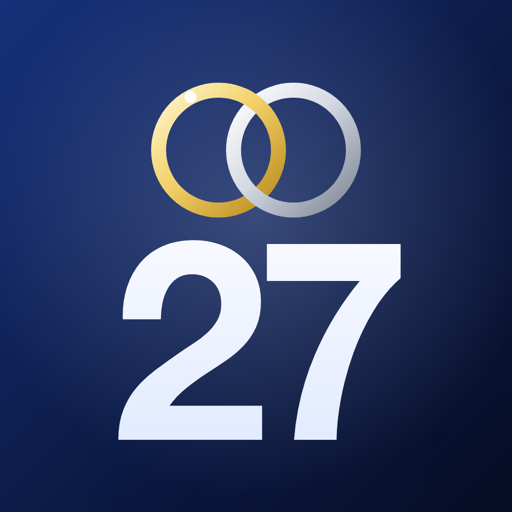
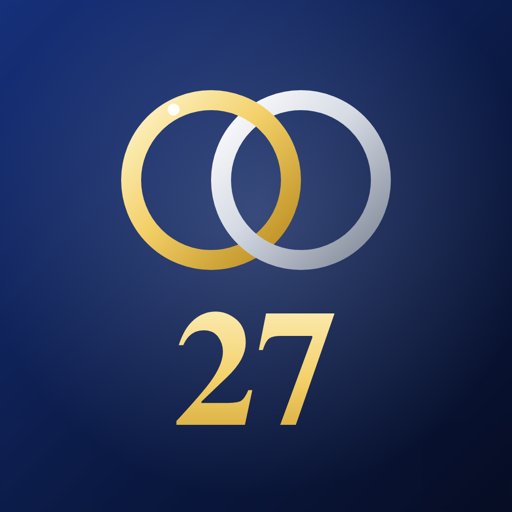
App-Symbol Variante B (Gold & Silber, goldene 27) und Anleitung mit „Mehr anzeigen“
Claude-Session: https://claude.ai/code/session_01BaYiSZ1tkA1mRZBURPAm5v

Changed region(s): [[0.2188, 0.1562, 0.7812, 0.875]]

diff --git a/restaurants.html b/restaurants.html
@@ -5,8 +5,8 @@
   <meta name="viewport" content="width=device-width, initial-scale=1, viewport-fit=cover">
   <meta name="color-scheme" content="light dark">
   <link rel="manifest" href="manifest.webmanifest">
-  <link rel="icon" type="image/png" href="icons/icon-192.png?v=d">
-  <link rel="apple-touch-icon" href="icons/icon-180.png?v=d">
+  <link rel="icon" type="image/png" href="icons/icon-192.png?v=b">
+  <link rel="apple-touch-icon" href="icons/icon-180.png?v=b">
   <meta name="apple-mobile-web-app-capable" content="yes">
   <meta name="mobile-web-app-capable" content="yes">
   <meta name="apple-mobile-web-app-title" content="27 Jahre">
@@ -19,7 +19,7 @@
   <meta property="og:title" content="Restaurants · 27 Jahre wir">
   <meta property="og:description" content="Ein Tag nur für uns – Samstag, 31. Oktober 2026.">
   <meta property="og:url" content="https://stephandel.github.io/jubilaeum-2026/restaurants.html">
-  <meta property="og:image" content="https://stephandel.github.io/jubilaeum-2026/icons/og.jpg?v=d">
+  <meta property="og:image" content="https://stephandel.github.io/jubilaeum-2026/icons/og.jpg?v=b">
   <meta property="og:image:width" content="1200">
   <meta property="og:image:height" content="630">
   <meta property="og:image:alt" content="27 Jahre wir. – Blick über Heidelberg">
@@ -77,6 +77,6 @@
   <div class="toast" id="toast" role="status" aria-live="polite"></div>
   <script src="data.js?v=e5fc6155"></script>
   <script src="likestore.js?v=9862fc83"></script>
-  <script src="script.js?v=ca682558"></script>
+  <script src="script.js?v=59e613c0"></script>
 </body>
 </html>

diff --git a/nachmittag.html b/nachmittag.html
@@ -5,8 +5,8 @@
   <meta name="viewport" content="width=device-width, initial-scale=1, viewport-fit=cover">
   <meta name="color-scheme" content="light dark">
   <link rel="manifest" href="manifest.webmanifest">
-  <link rel="icon" type="image/png" href="icons/icon-192.png?v=d">
-  <link rel="apple-touch-icon" href="icons/icon-180.png?v=d">
+  <link rel="icon" type="image/png" href="icons/icon-192.png?v=b">
+  <link rel="apple-touch-icon" href="icons/icon-180.png?v=b">
   <meta name="apple-mobile-web-app-capable" content="yes">
   <meta name="mobile-web-app-capable" content="yes">
   <meta name="apple-mobile-web-app-title" content="27 Jahre">
@@ -19,7 +19,7 @@
   <meta property="og:title" content="Nachmittag · 27 Jahre wir">
   <meta property="og:description" content="Ein Tag nur für uns – Samstag, 31. Oktober 2026.">
   <meta property="og:url" content="https://stephandel.github.io/jubilaeum-2026/nachmittag.html">
-  <meta property="og:image" content="https://stephandel.github.io/jubilaeum-2026/icons/og.jpg?v=d">
+  <meta property="og:image" content="https://stephandel.github.io/jubilaeum-2026/icons/og.jpg?v=b">
   <meta property="og:image:width" content="1200">
   <meta property="og:image:height" content="630">
   <meta property="og:image:alt" content="27 Jahre wir. – Blick über Heidelberg">
@@ -77,6 +77,6 @@
   <div class="toast" id="toast" role="status" aria-live="polite"></div>
   <script src="data.js?v=e5fc6155"></script>
   <script src="likestore.js?v=9862fc83"></script>
-  <script src="script.js?v=ca682558"></script>
+  <script src="script.js?v=59e613c0"></script>
 </body>
 </html>

diff --git a/cafes.html b/cafes.html
@@ -5,8 +5,8 @@
   <meta name="viewport" content="width=device-width, initial-scale=1, viewport-fit=cover">
   <meta name="color-scheme" content="light dark">
   <link rel="manifest" href="manifest.webmanifest">
-  <link rel="icon" type="image/png" href="icons/icon-192.png?v=d">
-  <link rel="apple-touch-icon" href="icons/icon-180.png?v=d">
+  <link rel="icon" type="image/png" href="icons/icon-192.png?v=b">
+  <link rel="apple-touch-icon" href="icons/icon-180.png?v=b">
   <meta name="apple-mobile-web-app-capable" content="yes">
   <meta name="mobile-web-app-capable" content="yes">
   <meta name="apple-mobile-web-app-title" content="27 Jahre">
@@ -19,7 +19,7 @@
   <meta property="og:title" content="Cafés · 27 Jahre wir">
   <meta property="og:description" content="Ein Tag nur für uns – Samstag, 31. Oktober 2026.">
   <meta property="og:url" content="https://stephandel.github.io/jubilaeum-2026/cafes.html">
-  <meta property="og:image" content="https://stephandel.github.io/jubilaeum-2026/icons/og.jpg?v=d">
+  <meta property="og:image" content="https://stephandel.github.io/jubilaeum-2026/icons/og.jpg?v=b">
   <meta property="og:image:width" content="1200">
   <meta property="og:image:height" content="630">
   <meta property="og:image:alt" content="27 Jahre wir. – Blick über Heidelberg">
@@ -77,6 +77,6 @@
   <div class="toast" id="toast" role="status" aria-live="polite"></div>
   <script src="data.js?v=e5fc6155"></script>
   <script src="likestore.js?v=9862fc83"></script>
-  <script src="script.js?v=ca682558"></script>
+  <script src="script.js?v=59e613c0"></script>
 </body>
 </html>

diff --git a/planer.html b/planer.html
@@ -5,8 +5,8 @@
   <meta name="viewport" content="width=device-width, initial-scale=1, viewport-fit=cover">
   <meta name="color-scheme" content="light dark">
   <link rel="manifest" href="manifest.webmanifest">
-  <link rel="icon" type="image/png" href="icons/icon-192.png?v=d">
-  <link rel="apple-touch-icon" href="icons/icon-180.png?v=d">
+  <link rel="icon" type="image/png" href="icons/icon-192.png?v=b">
+  <link rel="apple-touch-icon" href="icons/icon-180.png?v=b">
   <meta name="apple-mobile-web-app-capable" content="yes">
   <meta name="mobile-web-app-capable" content="yes">
   <meta name="apple-mobile-web-app-title" content="27 Jahre">
@@ -19,7 +19,7 @@
   <meta property="og:title" content="Planer · 27 Jahre wir">
   <meta property="og:description" content="Ein Tag nur für uns – Samstag, 31. Oktober 2026.">
   <meta property="og:url" content="https://stephandel.github.io/jubilaeum-2026/planer.html">
-  <meta property="og:image" content="https://stephandel.github.io/jubilaeum-2026/icons/og.jpg?v=d">
+  <meta property="og:image" content="https://stephandel.github.io/jubilaeum-2026/icons/og.jpg?v=b">
   <meta property="og:image:width" content="1200">
   <meta property="og:image:height" content="630">
   <meta property="og:image:alt" content="27 Jahre wir. – Blick über Heidelberg">
@@ -81,6 +81,6 @@
   <script src="likestore.js?v=9862fc83"></script>
   <script src="start.js?v=f1b7515f"></script>
   <script src="planer.js?v=f5dacd64"></script>
-  <script src="script.js?v=ca682558"></script>
+  <script src="script.js?v=59e613c0"></script>
 </body>
 </html>

diff --git a/index.html b/index.html
@@ -5,8 +5,8 @@
   <meta name="viewport" content="width=device-width, initial-scale=1, viewport-fit=cover">
   <meta name="color-scheme" content="light dark">
   <link rel="manifest" href="manifest.webmanifest">
-  <link rel="icon" type="image/png" href="icons/icon-192.png?v=d">
-  <link rel="apple-touch-icon" href="icons/icon-180.png?v=d">
+  <link rel="icon" type="image/png" href="icons/icon-192.png?v=b">
+  <link rel="apple-touch-icon" href="icons/icon-180.png?v=b">
   <meta name="apple-mobile-web-app-capable" content="yes">
   <meta name="mobile-web-app-capable" content="yes">
   <meta name="apple-mobile-web-app-title" content="27 Jahre">
@@ -19,7 +19,7 @@
   <meta property="og:title" content="27 Jahre wir.">
   <meta property="og:description" content="Ein Tag nur für uns – Samstag, 31. Oktober 2026.">
   <meta property="og:url" content="https://stephandel.github.io/jubilaeum-2026/">
-  <meta property="og:image" content="https://stephandel.github.io/jubilaeum-2026/icons/og.jpg?v=d">
+  <meta property="og:image" content="https://stephandel.github.io/jubilaeum-2026/icons/og.jpg?v=b">
   <meta property="og:image:width" content="1200">
   <meta property="og:image:height" content="630">
   <meta property="og:image:alt" content="27 Jahre wir. – Blick über Heidelberg">
@@ -78,6 +78,6 @@
   <script src="data.js?v=e5fc6155"></script>
   <script src="likestore.js?v=9862fc83"></script>
   <script src="start.js?v=f1b7515f"></script>
-  <script src="script.js?v=ca682558"></script>
+  <script src="script.js?v=59e613c0"></script>
 </body>
 </html>

diff --git a/script.js b/script.js
@@ -1041,9 +1041,10 @@
     var teilen = '<svg class="ios-teilen" viewBox="0 0 24 24" aria-hidden="true"><path d="M12 3v12M8 7l4-4 4 4"/><path d="M6 11H5a1 1 0 0 0-1 1v8a1 1 0 0 0 1 1h14a1 1 0 0 0 1-1v-8a1 1 0 0 0-1-1h-1"/></svg>';
     if (!istIOS) return kurz ? "" : '<div class="install"><b>Als App aufs Handy</b><span>Öffnet die Seite auf dem iPhone in Safari, dann erscheint hier die Anleitung.</span></div>';
     return '<div class="install' + (kurz ? " kurz" : "") + '"><b>📲 Als App auf den Home-Bildschirm</b><ol>' +
-      "<li>In Safari unten auf " + teilen + " <b>Teilen</b> tippen (bei neuerem iOS zuerst unten links auf <b>≡</b> bzw. <b>•••</b>).</li>" +
+      "<li>In Safari unten auf " + teilen + " <b>Teilen</b> tippen – bei neuerem iOS erst unten links auf <b>≡</b> bzw. <b>•••</b>, dann <b>Teilen</b>.</li>" +
+      "<li>Im Teilen-Fenster ganz unten rechts auf <b>˅ Mehr anzeigen</b> tippen.</li>" +
       "<li><b>Zum Home-Bildschirm</b> wählen.</li>" +
-      "<li><b>Hinzufügen</b> – fertig. Die Seite startet dann wie eine App, mit dem Ringe-Symbol.</li></ol></div>";
+      "<li><b>Hinzufügen</b> tippen – fertig. Die Seite startet dann wie eine App mit dem 27-Symbol.</li></ol></div>";
   }
   var inst = document.getElementById("installieren");
   if (inst) inst.innerHTML = installHtml(false);
